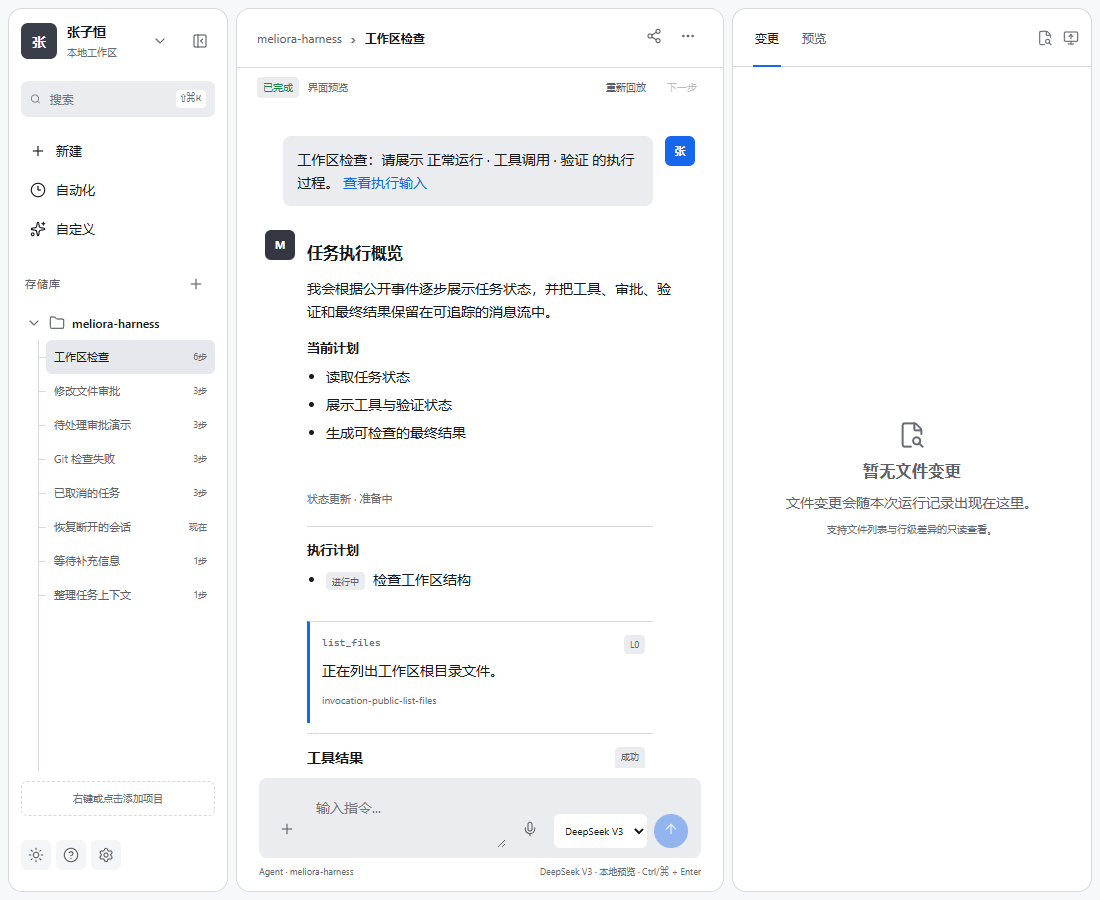
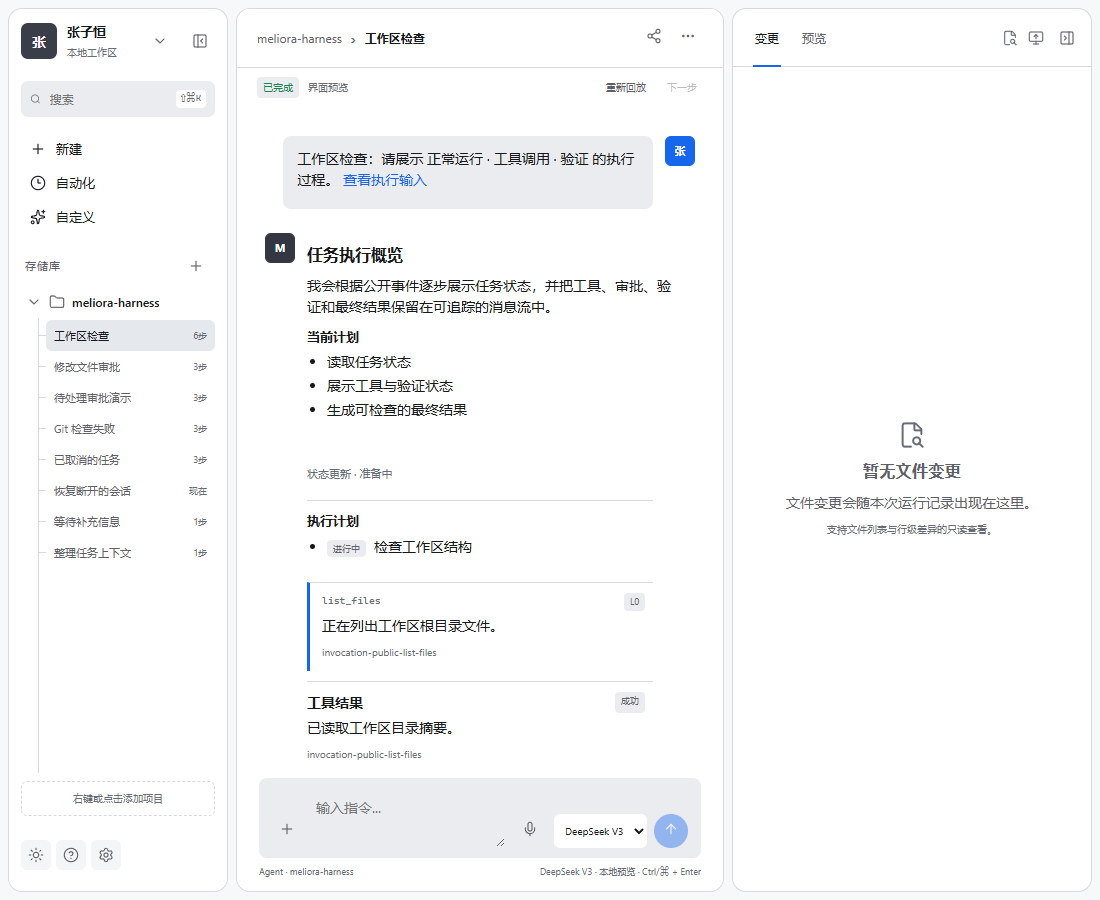
feat(web): refine workspace density and panel controls

diff --git a/apps/web/src/dark-shell.css b/apps/web/src/dark-shell.css
@@ -42,18 +42,22 @@ dialog{border:0;color:var(--text);background:var(--panel-2)}dialog::backdrop{bac
 :root[data-theme="light"]{--page:#f7f8fa;--panel:#fff;--panel-2:#f4f5f7;--field:#eaecf0;--hover:#e5e8ed}
 .app-shell{grid-template-columns:248px minmax(0,1fr) 384px;gap:var(--workspace-gap);height:100vh;padding:var(--workspace-gap);background:var(--page);overflow:hidden}
 .app-shell.sidebar-collapsed{grid-template-columns:56px minmax(0,1fr) 384px}
+.app-shell.right-collapsed{grid-template-columns:248px minmax(0,1fr) 56px}
+.app-shell.sidebar-collapsed.right-collapsed{grid-template-columns:56px minmax(0,1fr) 56px}
 .left-panel,.center-panel,.right-panel{height:calc(100vh - (var(--workspace-gap) * 2));border:1px solid var(--line);border-radius:14px;background:var(--panel)}
 .left-panel,.center-panel,.right-panel{font-size:14px;line-height:1.5}
 .left-panel svg,.center-panel svg,.right-panel svg{width:16px;height:16px;stroke-width:1.7}
 .icon-button{display:grid;place-items:center}.quick-actions button svg,.repository-title>svg{width:16px;height:16px;flex:0 0 auto}.chevron{display:grid;place-items:center;width:16px;height:16px}.chevron.expanded{transform:none}
+.search-field{margin-bottom:16px}.quick-actions{gap:2px;margin-bottom:18px}.quick-actions button{height:32px;line-height:1.25}.section-title{padding-bottom:5px;line-height:1.3}.repository{margin-bottom:8px}.repository-title{height:32px;line-height:1.25}.chat-tree>nav{padding-top:2px;padding-bottom:2px}.chat-row{height:31px;line-height:1.25}
 .sidebar-scroll{display:flex;flex-direction:column;overflow:hidden}.repository-list{display:flex;min-height:0;flex:1;flex-direction:column;overflow:hidden}.repository-list>.repository{display:flex;min-height:0;flex-direction:column}.repository-list>.repository:has(.chat-tree.expanded){flex:1}.chat-tree.expanded{min-height:0;flex:1}.chat-tree.expanded>nav{height:100%;overflow-y:auto;overscroll-behavior:contain;scrollbar-width:thin;scrollbar-color:var(--line) transparent}.add-repository{flex:0 0 auto}
 .center-panel{border-inline:1px solid var(--line)}.conversation-header,.run-bar,.composer-area{background:var(--panel)}
-.message-body{padding:10px 0;border-radius:0;background:transparent}.message.user .message-body{padding:12px 14px;border-radius:8px;background:var(--field)}.message-body h3{margin-top:14px}.message-actions{align-items:center}.message-actions button{display:inline-flex;align-items:center;gap:4px}.message-actions button svg{width:13px;height:13px}
-.event-card{padding:13px 0;border-radius:0;background:transparent;border-top:1px solid var(--line)}.event-card.completed,.event-card.failed,.event-card.approval,.tool-card{padding-left:12px}.event-card.approval{padding:14px;border:1px solid var(--line);border-left:3px solid #e0a739;border-radius:8px;background:var(--field)}
+.message-body{padding:10px 0;border-radius:0;background:transparent;line-height:1.5}.message.user .message-body{padding:12px 14px;border-radius:8px;background:var(--field)}.message-body h2{margin-bottom:8px}.message-body h3{margin:10px 0 4px}.message-body p{margin-bottom:7px}.message-body ul,.message-body ol{margin:4px 0;padding-left:20px}.message-body li{margin:3px 0}.message-actions{align-items:center}.message-actions button{display:inline-flex;align-items:center;gap:4px}.message-actions button svg{width:13px;height:13px}
+.event-card{padding:10px 0;border-radius:0;background:transparent;border-top:1px solid var(--line);line-height:1.5}.event-card h3{margin-bottom:5px}.event-card p{margin:4px 0}.event-card ul,.event-card ol{margin:5px 0;padding-left:20px}.event-card li{margin:3px 0}.event-card.completed,.event-card.failed,.event-card.approval,.tool-card{padding-left:12px}.event-card.approval{padding:14px;border:1px solid var(--line);border-left:3px solid #e0a739;border-radius:8px;background:var(--field)}
 .composer-area form{border:1px solid transparent}.composer-area form.is-thinking{position:relative;overflow:hidden}.composer-area form.is-thinking:before{content:"";position:absolute;top:0;bottom:0;left:-35%;width:32%;background:linear-gradient(90deg,transparent,#1767ed30,transparent);animation:composer-thinking 1.5s ease-in-out infinite}.composer-area form.is-thinking>*{position:relative}@keyframes composer-thinking{to{left:110%}}
 .right-tools{display:flex;align-items:center;gap:10px}.preview-empty>svg,.changes-empty>svg{width:28px;height:28px;color:var(--muted)}.project-menu button{display:flex;align-items:center;gap:7px}
+.right-collapse-button{margin-left:2px}.right-collapsed-rail{display:flex;flex:1;flex-direction:column;align-items:center;gap:18px;padding-top:14px;color:var(--muted)}.right-collapsed-rail .icon-button{color:var(--secondary)}
 
-@media (1100px <= width < 1280px){.app-shell{grid-template-columns:220px minmax(0,1fr) 360px}.app-shell.sidebar-collapsed{grid-template-columns:56px minmax(0,1fr) 360px}}
-@media (width < 1100px){.app-shell{grid-template-columns:220px minmax(0,1fr) 0}.app-shell.sidebar-collapsed{grid-template-columns:56px minmax(0,1fr) 0}.right-panel{top:var(--workspace-gap);right:var(--workspace-gap);bottom:var(--workspace-gap);height:auto;width:min(360px,calc(100vw - (var(--workspace-gap) * 2)));border-radius:14px}}
+@media (1100px <= width < 1280px){.app-shell{grid-template-columns:220px minmax(0,1fr) 360px}.app-shell.sidebar-collapsed{grid-template-columns:56px minmax(0,1fr) 360px}.app-shell.right-collapsed{grid-template-columns:220px minmax(0,1fr) 56px}.app-shell.sidebar-collapsed.right-collapsed{grid-template-columns:56px minmax(0,1fr) 56px}}
+@media (width < 1100px){.app-shell,.app-shell.right-collapsed{grid-template-columns:220px minmax(0,1fr) 0}.app-shell.sidebar-collapsed,.app-shell.sidebar-collapsed.right-collapsed{grid-template-columns:56px minmax(0,1fr) 0}.right-panel{top:var(--workspace-gap);right:var(--workspace-gap);bottom:var(--workspace-gap);height:auto;width:min(360px,calc(100vw - (var(--workspace-gap) * 2)));border-radius:14px}.right-collapse-button{display:none}}
 @media (max-width:768px){.app-shell,.app-shell.sidebar-collapsed{display:block;padding:var(--workspace-gap)}.center-panel{height:calc(100vh - (var(--workspace-gap) * 2));border:1px solid var(--line);border-radius:14px}.left-panel,.right-panel{top:var(--workspace-gap);bottom:var(--workspace-gap);height:auto;border-radius:14px}.left-panel{left:var(--workspace-gap)}.right-panel{right:var(--workspace-gap)}.message-stream{padding:20px 12px}.event-flow{margin-inline:0}.message-body{max-width:90%}.composer-area{padding-inline:8px}.composer-area form{grid-template-columns:32px minmax(0,1fr) 32px 38px}.model-picker{display:none}.conversation-header{padding-inline:8px;gap:4px}.conversation-header>div{flex:1}.run-bar{padding-inline:12px}.message-actions{position:static;opacity:1;transform:none;margin-top:10px}}
 @media(prefers-reduced-motion:reduce){.composer-area form.is-thinking:before{animation:none;left:31%;opacity:.55}}

diff --git a/apps/web/src/main.tsx b/apps/web/src/main.tsx
@@ -30,6 +30,7 @@ function App() {
   const [decision, setDecision] = useState(initialChat.decision);
   const [playing, setPlaying] = useState(false);
   const [collapsed, setCollapsed] = useState(false);
+  const [rightCollapsed, setRightCollapsed] = useState(false);
   const [mobilePanel, setMobilePanel] = useState<"nav" | "code" | null>(null);
   const [notice, setNotice] = useState("");
   const [voiceActive, setVoiceActive] = useState(false);
@@ -196,11 +197,11 @@ function App() {
     }
   }
 
-  return <div className={`app-shell ${collapsed ? "sidebar-collapsed" : ""} ${mobilePanel === "nav" ? "mobile-nav-open" : ""} ${mobilePanel === "code" ? "mobile-code-open" : ""}`}>
+  return <div className={`app-shell ${collapsed ? "sidebar-collapsed" : ""} ${rightCollapsed ? "right-collapsed" : ""} ${mobilePanel === "nav" ? "mobile-nav-open" : ""} ${mobilePanel === "code" ? "mobile-code-open" : ""}`}>
     <aside className="left-panel"><Sidebar library={library} collapsed={collapsed} theme={theme} userName={userName} userAvatar={userAvatar} onSelect={(id) => { openChat(id); setMobilePanel(null); }} onCollapse={() => window.innerWidth <= 768 ? setMobilePanel(null) : setCollapsed((value) => !value)} onNewAgent={() => { createAgent(); setMobilePanel(null); }} onNewProject={() => showDialog("project")} onTheme={setTheme} onAutomations={() => showDialog("automations")} onCustomize={() => showDialog("customize")} onReveal={() => setMobilePanel("nav")}/></aside>
 
     <main className="center-panel">
-      <header className="conversation-header"><button className="mobile-panel-button mobile-nav-trigger" aria-label="打开导航" onClick={() => setMobilePanel("nav")}><Menu /></button><div><span>{activeProject.name}</span><b>›</b><strong>{activeChat.title}</strong></div><nav aria-label="对话操作"><button className="mobile-panel-button mobile-code-trigger" aria-label="打开代码面板" onClick={() => setMobilePanel("code")}><PanelRightOpen /></button><button aria-label="分享" onClick={() => setNotice("分享将在连接协作服务后可用。")}><Share2 /></button><button aria-label="更多操作" onClick={() => setNotice("更多对话操作即将提供。")}><MoreHorizontal /></button></nav></header>
+      <header className="conversation-header"><button className="mobile-panel-button mobile-nav-trigger" aria-label="打开导航" onClick={() => setMobilePanel("nav")}><Menu /></button><div><span>{activeProject.name}</span><b>›</b><strong>{activeChat.title}</strong></div><nav aria-label="对话操作"><button className="mobile-panel-button mobile-code-trigger" aria-label="打开代码面板" onClick={() => { setRightCollapsed(false); setMobilePanel("code"); }}><PanelRightOpen /></button><button aria-label="分享" onClick={() => setNotice("分享将在连接协作服务后可用。")}><Share2 /></button><button aria-label="更多操作" onClick={() => setNotice("更多对话操作即将提供。")}><MoreHorizontal /></button></nav></header>
       <div className="run-bar"><span className={`run-status ${runStatus}`}>{playing ? "生成中" : labels[runStatus]}</span><span>界面预览</span><button onClick={replay}>重新回放</button><button disabled={playing || eventCount >= source.length} onClick={() => setEventCount((count) => count + 1)}>下一步</button></div>
 
       <section className="message-stream" aria-label="消息流">
@@ -227,7 +228,7 @@ function App() {
     </main>
 
     <button className="mobile-backdrop" aria-label="关闭侧面板" onClick={() => setMobilePanel(null)}/>
-    <aside className="right-panel"><button className="mobile-close" aria-label="关闭代码面板" onClick={() => setMobilePanel(null)}><X /></button><RightPanel projectName={activeProject.name} chatTitle={activeChat.title}/></aside>
+    <aside className="right-panel"><button className="mobile-close" aria-label="关闭代码面板" onClick={() => setMobilePanel(null)}><X /></button><RightPanel projectName={activeProject.name} chatTitle={activeChat.title} collapsed={rightCollapsed} onCollapse={() => setRightCollapsed((value) => !value)}/></aside>
 
     <dialog ref={settingsDialog} className="settings-dialog" onCancel={() => setDialogMode(null)}>
       <button className="dialog-close" aria-label="关闭设置" onClick={() => setDialogMode(null)}><X /></button>

diff --git a/apps/web/src/RightPanel.tsx b/apps/web/src/RightPanel.tsx
@@ -1,9 +1,11 @@
 import React, { useRef, useState } from "react";
-import { FileSearch2, MonitorUp } from "lucide-react";
+import { FileSearch2, MonitorUp, PanelRightClose, PanelRightOpen } from "lucide-react";
 
 interface RightPanelProps {
   projectName: string;
   chatTitle: string;
+  collapsed: boolean;
+  onCollapse: () => void;
 }
 
 export function RightPanel(props: RightPanelProps) {
@@ -19,11 +21,17 @@ export function RightPanel(props: RightPanelProps) {
     (next === "changes" ? changesTab : previewTab).current?.focus();
   }
 
+  if (props.collapsed) return <div className="right-collapsed-rail">
+    <button className="icon-button" aria-label="展开右栏" onClick={props.onCollapse}><PanelRightOpen /></button>
+    <FileSearch2 aria-hidden="true"/>
+  </div>;
+
   return <>
     <div className="right-tabs" role="tablist" aria-label="右侧面板">
       <button ref={changesTab} role="tab" aria-selected={activeTab === "changes"} tabIndex={activeTab === "changes" ? 0 : -1} onKeyDown={selectAdjacentTab} onClick={() => setActiveTab("changes")}>变更</button>
       <button ref={previewTab} role="tab" aria-selected={activeTab === "preview"} tabIndex={activeTab === "preview" ? 0 : -1} onKeyDown={selectAdjacentTab} onClick={() => setActiveTab("preview")}>预览</button>
       <span className="right-tools" aria-hidden="true"><FileSearch2 /><MonitorUp /></span>
+      <button className="icon-button right-collapse-button" aria-label="收起右栏" onClick={props.onCollapse}><PanelRightClose /></button>
     </div>
     {activeTab === "changes" ? <div className="changes-empty" role="status"><FileSearch2 aria-hidden="true"/><h3>暂无文件变更</h3><p>文件变更会随本次运行记录出现在这里。</p><small>支持文件列表与行级差异的只读查看。</small></div> : <div className="preview-empty"><MonitorUp aria-hidden="true"/><h3>浏览器预览</h3><p>{props.projectName} / {props.chatTitle}</p><small>连接本地预览服务后在这里显示页面。</small></div>}
   </>;
